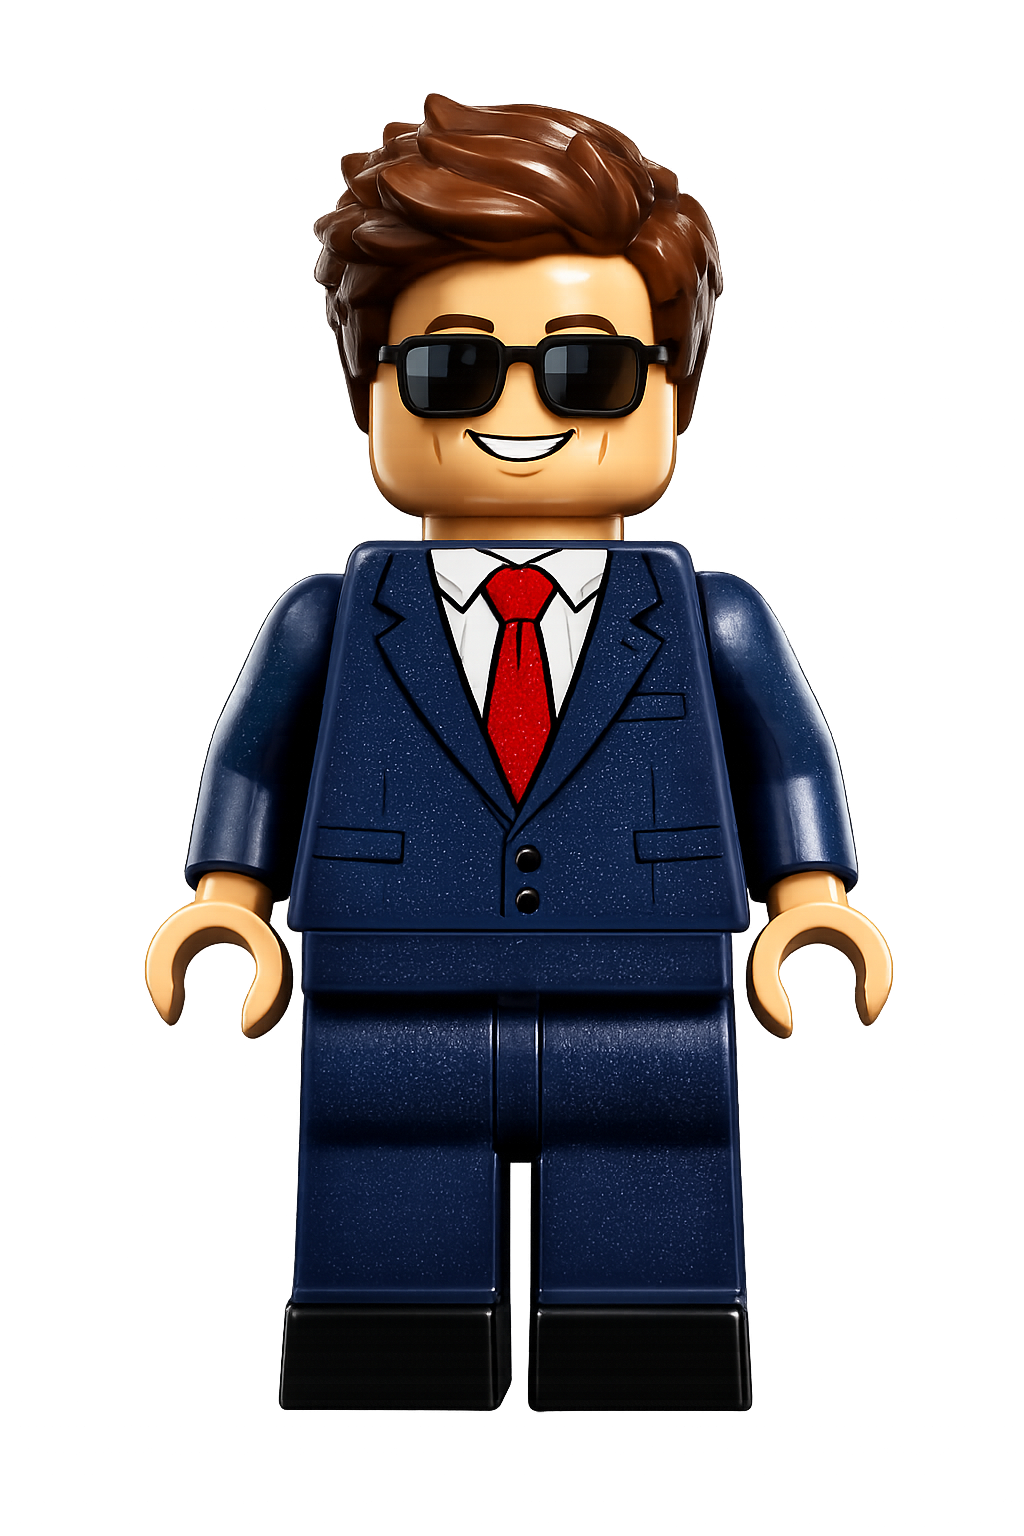
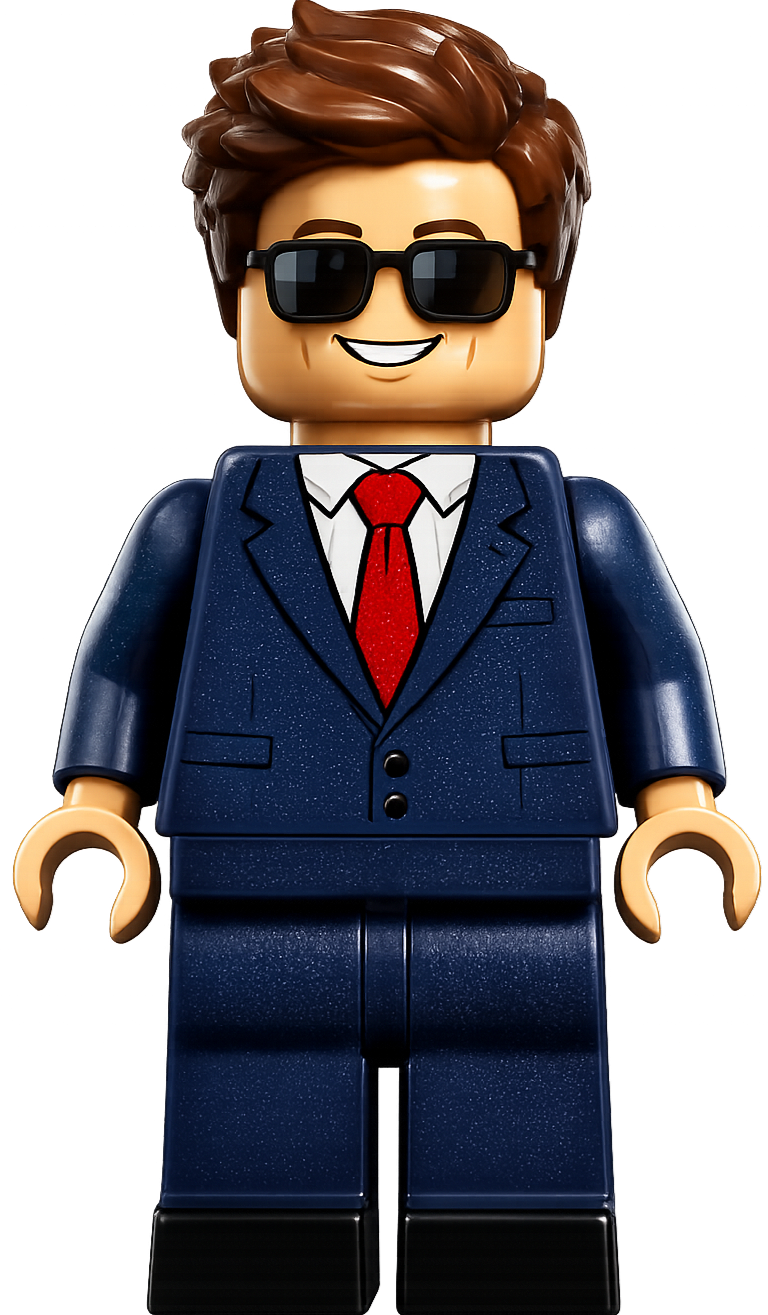
corrected the picture

diff --git a/src/pages/Page.module.css b/src/pages/Page.module.css
@@ -53,20 +53,24 @@
   align-self: stretch;
   min-width: 0;
   min-height: calc(100vh - 96px);
+  overflow: visible;
+}
+
+.heroImageFrame {
+  width: clamp(720px, 55vw, 800px);
+  height: min(770px, calc(100vh - 96px));
   overflow: hidden;
-  padding-top: 46px;
+  transform: translateX(-105px);
 }
 
 .heroImage {
   display: block;
-  width: clamp(760px, 62vw, 920px);
-  max-width: none;
+  width: 100%;
+  max-width: 100%;
   height: auto;
   object-fit: contain;
   object-position: top center;
-  clip-path: inset(0 0 24% 0);
   filter: drop-shadow(0 28px 42px rgb(0 0 0 / 0.5));
-  transform: translateX(-86px);
 }
 
 .heroContent {
@@ -282,11 +286,11 @@
     align-self: auto;
     order: 0;
     min-height: 520px;
-    padding-top: 26px;
   }
 
-  .heroImage {
-    width: min(112vw, 500px);
+  .heroImageFrame {
+    width: min(100vw, 520px);
+    height: 500px;
     transform: none;
   }
 
@@ -316,12 +320,12 @@
   }
 
   .heroVisual {
-    min-height: 505px;
-    padding-top: 18px;
+    min-height: 390px;
   }
 
-  .heroImage {
-    width: min(112vw, 455px);
+  .heroImageFrame {
+    width: min(100vw, 420px);
+    height: 390px;
   }
 
   .homeHero .kicker {
@@ -361,11 +365,12 @@
   }
 
   .heroVisual {
-    min-height: 450px;
+    min-height: 360px;
   }
 
-  .heroImage {
-    width: min(112vw, 420px);
+  .heroImageFrame {
+    width: min(100vw, 390px);
+    height: 360px;
   }
 }
 

diff --git a/src/pages/HomePage.tsx b/src/pages/HomePage.tsx
@@ -15,11 +15,13 @@ export function HomePage() {
     <main className={`${styles.page} ${styles.homePage}`}>
       <section className={styles.homeHero} aria-labelledby="home-title">
         <div className={styles.heroVisual}>
-          <img
-            className={styles.heroImage}
-            src={heroMinifigure}
-            alt="Стилизованная конструкторная минифигурка Кирилла в костюме"
-          />
+          <div className={styles.heroImageFrame}>
+            <img
+              className={styles.heroImage}
+              src={heroMinifigure}
+              alt="Стилизованная конструкторная минифигурка Кирилла в костюме"
+            />
+          </div>
         </div>
 
         <div className={styles.heroContent}>

diff --git a/session-handoff.md b/session-handoff.md
@@ -26,10 +26,11 @@
 - Текущий hero реализован в `src/pages/HomePage.tsx` и
   `src/pages/Page.module.css`; локальный generated asset лежит в
   `src/assets/hero-minifigure.png`.
-- Актуальный hero: темная CSS-сцена с мягким свечением, крупная cropped
-  minifigure, короткое описание `Разрабатываю цифровые продукты, объединяю
-  backend, AI и управление командой.`, skills marquee с точками и кнопка
-  `Узнать обо мне`.
+- Актуальный hero: темная CSS-сцена с мягким свечением, крупная minifigure в
+  отдельной crop-рамке, которая режет изображение только снизу примерно по
+  пояс/корпус на desktop и mobile; короткое описание `Разрабатываю цифровые
+  продукты, объединяю backend, AI и управление командой.`, skills marquee с
+  точками и кнопка `Узнать обо мне`.
 - Visual smoke-проверка находится в `tests/visual/home.spec.ts`; команда
   `npm run visual:smoke` поднимает или переиспользует Vite dev-server через
   Playwright и сохраняет скриншоты в `artifacts/home-desktop.png` и
@@ -58,6 +59,9 @@
 | Baseline before hero visual alignment | `powershell.exe -NoProfile -ExecutionPolicy Bypass -File .\init.ps1` | Passed | lint, typecheck, test, build |
 | Hero visual alignment checks | `npm.cmd run lint`, `npm.cmd run typecheck`, `npm.cmd test`, `npm.cmd run build` | Passed | Vitest: 1 file, 1 test |
 | Hero visual smoke | `npm.cmd run visual:smoke` plus `view_image artifacts/home-desktop.png` and `view_image artifacts/home-mobile.png` | Passed | Screenshots inspected after CSS/markup edits |
+| Hero image crop repair baseline | `powershell.exe -NoProfile -ExecutionPolicy Bypass -File .\init.ps1` | Passed | lint, typecheck, test, build |
+| Hero image crop repair checks | `npm.cmd run lint`, `npm.cmd run typecheck`, `npm.cmd test`, `npm.cmd run build` | Passed | Vitest: 1 file, 1 test |
+| Hero image crop repair visual smoke | `npm.cmd run visual:smoke` plus `view_image artifacts/home-desktop.png` and `view_image artifacts/home-mobile.png` | Partial shell exit; visual passed | Playwright reported `ok` and regenerated screenshots; npm wrapper timed out waiting for process exit in this shell; screenshots inspected visually |
 
 ## Старт следующей сессии (Next Session Startup)
 

diff --git a/progress.md b/progress.md
@@ -237,3 +237,40 @@ Next step:
 
 - Continue with exactly one `not-started` feature from `feature_list.json`;
   recommended next feature remains `portfolio-003` hero transition animation.
+
+## 2026-06-29 Hero Image Crop Repair
+
+Changed files:
+
+- `src/pages/HomePage.tsx` - added a dedicated crop frame around the hero
+  minifigure image.
+- `src/pages/Page.module.css` - replaced direct image `clip-path` sizing with a
+  responsive frame that clips only the bottom of the figure; desktop and mobile
+  sizes now show the minifigure around waist/torso level without exposing legs.
+- `feature_list.json` - appended `portfolio-009` evidence for this regression
+  repair.
+- `progress.md` - recorded current-session evidence and changed files.
+- `session-handoff.md` - updated restart context for the repaired crop behavior.
+
+Evidence:
+
+- Baseline before edits:
+  `powershell.exe -NoProfile -ExecutionPolicy Bypass -File .\init.ps1` passed
+  end-to-end: lint, typecheck, test, build.
+- Visual verification:
+  `npm.cmd run visual:smoke` Playwright test reported `ok` and regenerated
+  `artifacts/home-desktop.png` and `artifacts/home-mobile.png`; the npm wrapper
+  timed out waiting for process exit in this shell, so the command did not
+  return a clean shell exit code.
+- Screenshot inspection:
+  both regenerated PNG files were opened through `view_image`; desktop and
+  mobile crops were inspected visually against `examples/hero-screen-desktop.jpg`
+  and `examples/hero-screen-mobile.jpg`.
+- Final checks:
+  `npm.cmd run lint`, `npm.cmd run typecheck`, `npm.cmd test`, and
+  `npm.cmd run build` passed. Vitest result: 1 file, 1 test.
+
+Next step:
+
+- Continue with exactly one `not-started` feature from `feature_list.json`;
+  recommended next feature remains `portfolio-003` hero transition animation.
